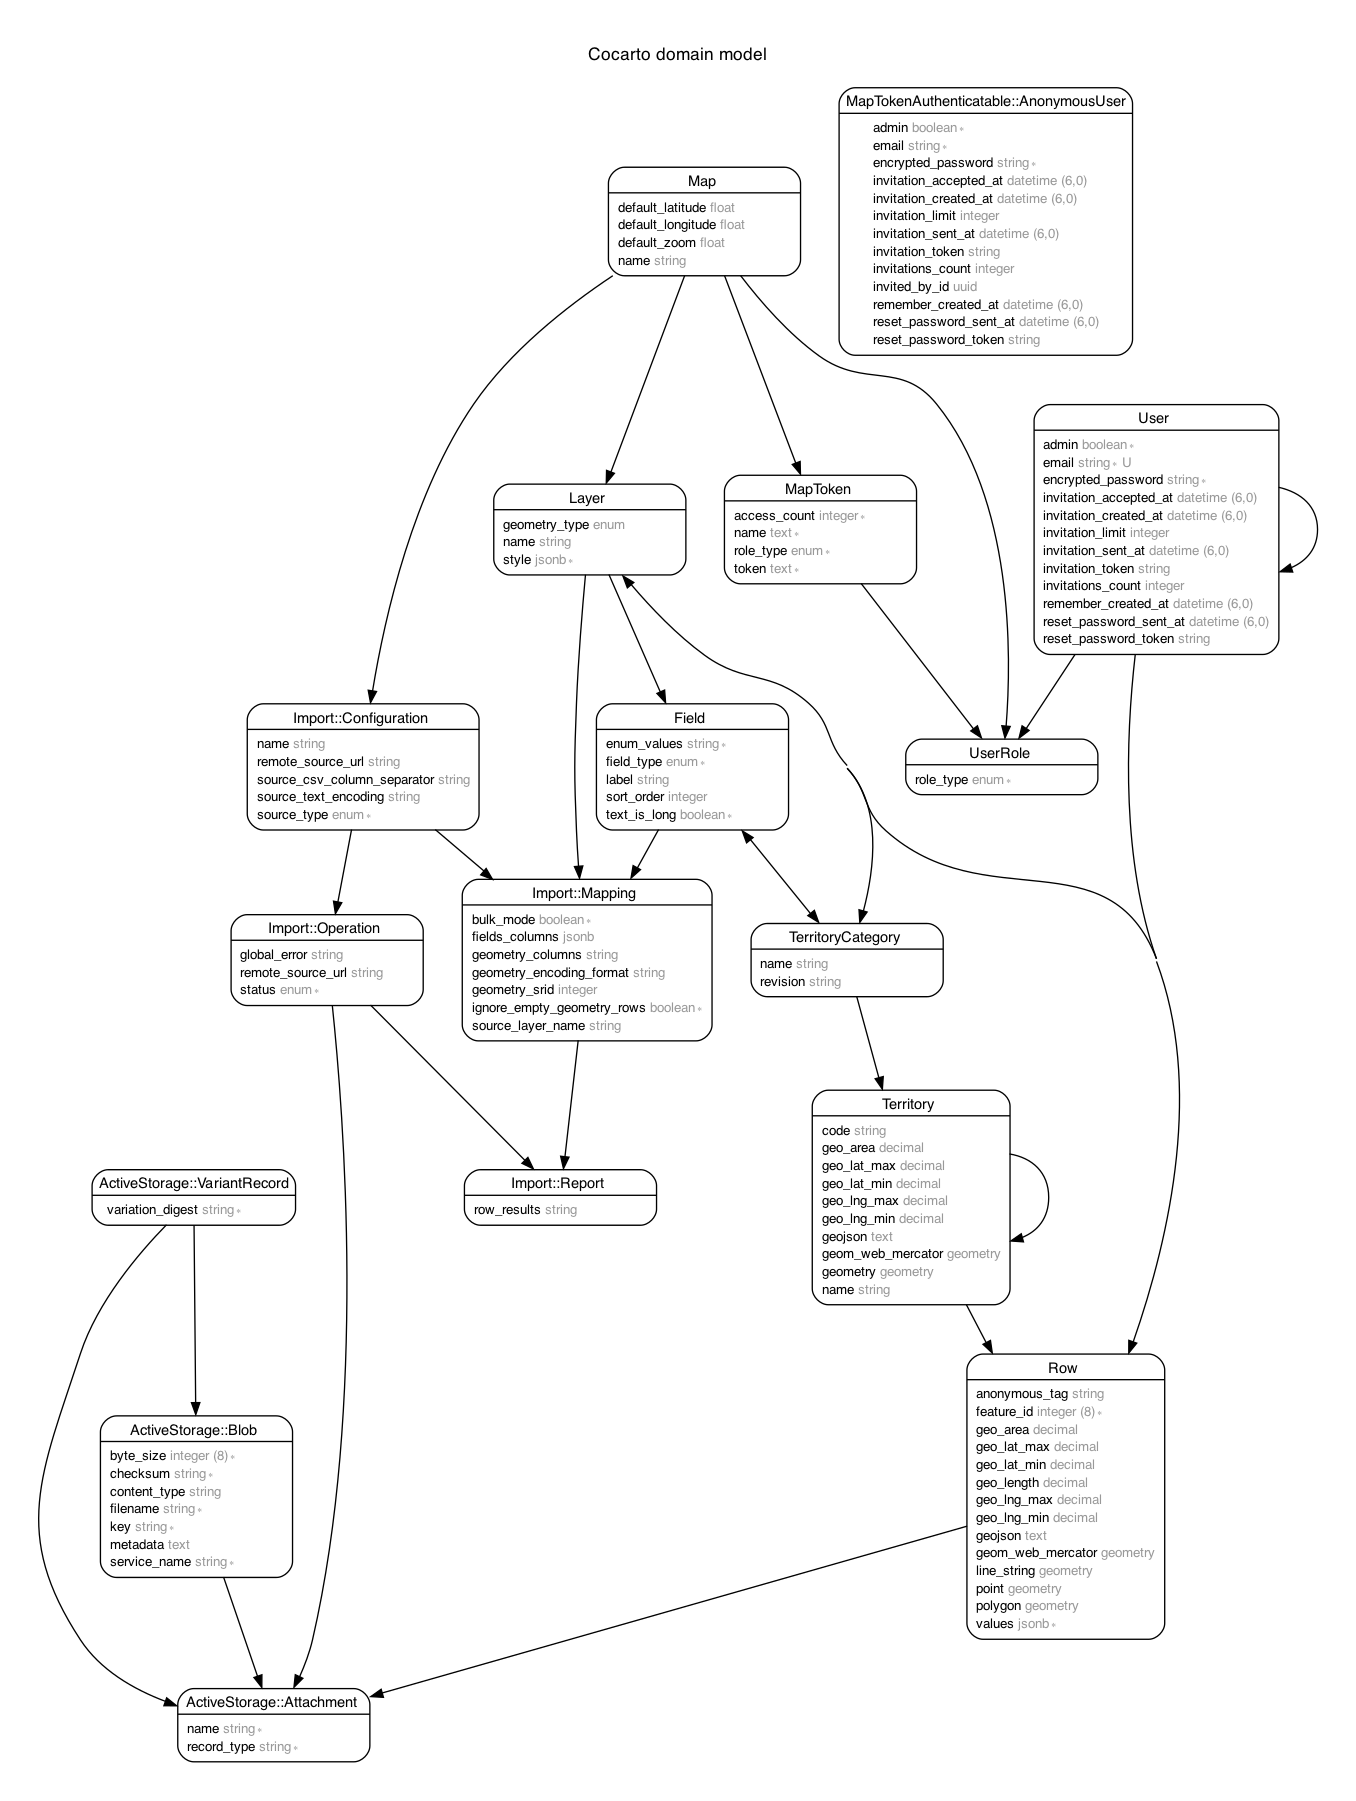
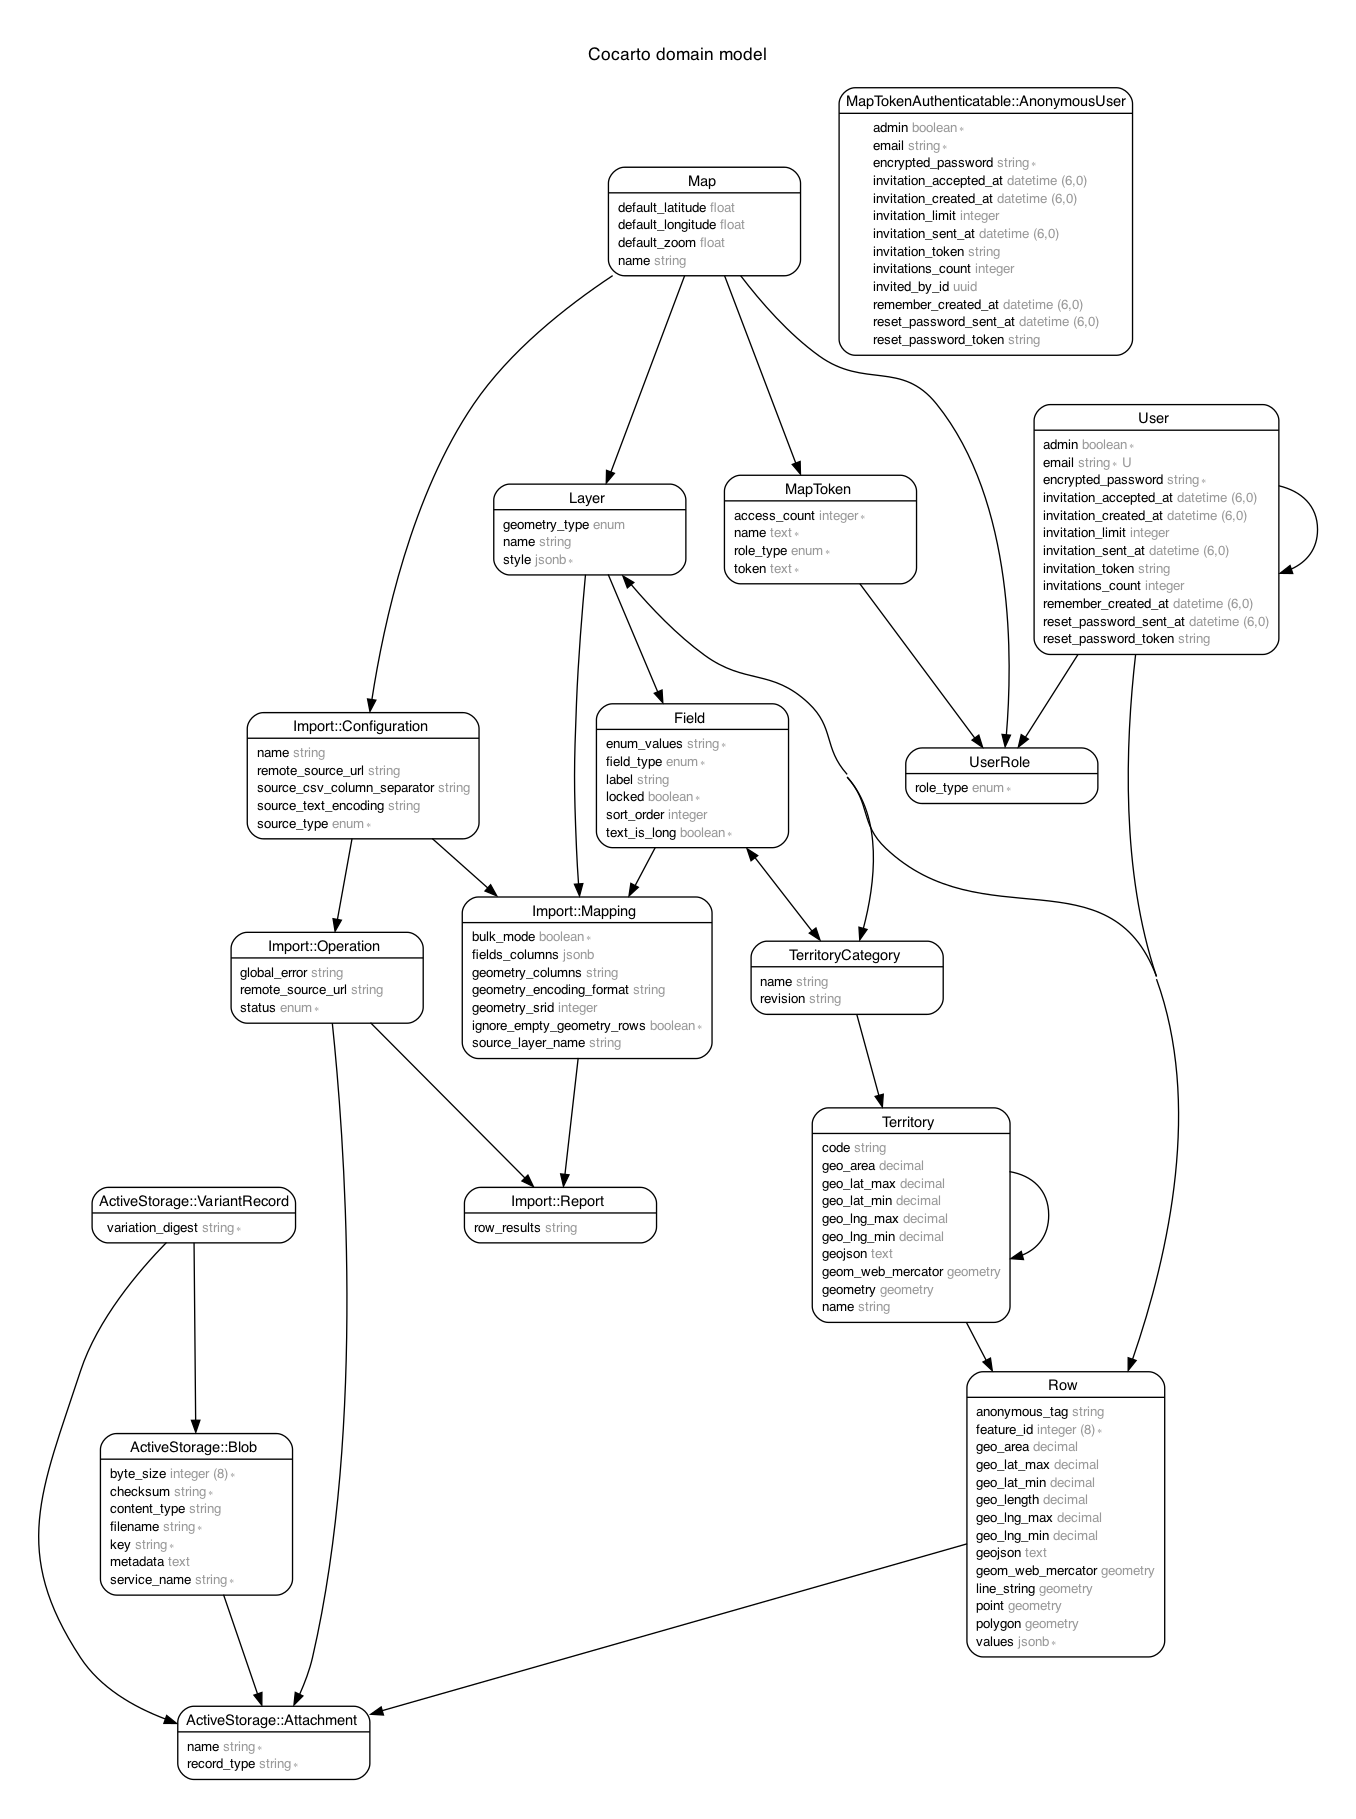
Add Field#locked

diff --git a/db/schema.rb b/db/schema.rb
@@ -10,7 +10,7 @@
 #
 # It's strongly recommended that you check this file into your version control system.
 
-ActiveRecord::Schema[7.0].define(version: 2023_08_10_114416) do
+ActiveRecord::Schema[7.0].define(version: 2023_08_10_144943) do
   # These are extensions that must be enabled in order to support this database
   enable_extension "pg_trgm"
   enable_extension "pgcrypto"
@@ -95,6 +95,7 @@ ActiveRecord::Schema[7.0].define(version: 2023_08_10_114416) do
     t.string "enum_values", array: true
     t.integer "sort_order"
     t.boolean "text_is_long", default: false, null: false
+    t.boolean "locked", default: false, null: false
     t.index ["layer_id", "sort_order"], name: "index_fields_on_layer_id_and_sort_order", unique: true
   end
 

diff --git a/app/models/field.rb b/app/models/field.rb
@@ -6,6 +6,7 @@
 #  enum_values  :string           is an Array
 #  field_type   :enum             not null
 #  label        :string
+#  locked       :boolean          default(FALSE), not null
 #  sort_order   :integer
 #  text_is_long :boolean          default(FALSE), not null
 #  created_at   :datetime         not null
@@ -38,6 +39,7 @@ class Field < ApplicationRecord
   # Validations
   validates :field_type, presence: true
   validates :text_is_long, inclusion: [true, false]
+  validates :locked, inclusion: [true, false]
 
   # Type-specific validations
   validates :enum_values, presence: true, if: -> { type_enum? }

diff --git a/test/models/field_test.rb b/test/models/field_test.rb
@@ -6,6 +6,7 @@
 #  enum_values  :string           is an Array
 #  field_type   :enum             not null
 #  label        :string
+#  locked       :boolean          default(FALSE), not null
 #  sort_order   :integer
 #  text_is_long :boolean          default(FALSE), not null
 #  created_at   :datetime         not null

diff --git a/db/migrate/20230810144943_add_locked_to_field.rb b/db/migrate/20230810144943_add_locked_to_field.rb
@@ -1,0 +1,5 @@
+class AddLockedToField < ActiveRecord::Migration[7.0]
+  def change
+    add_column :fields, :locked, :boolean, default: false, null: false
+  end
+end
